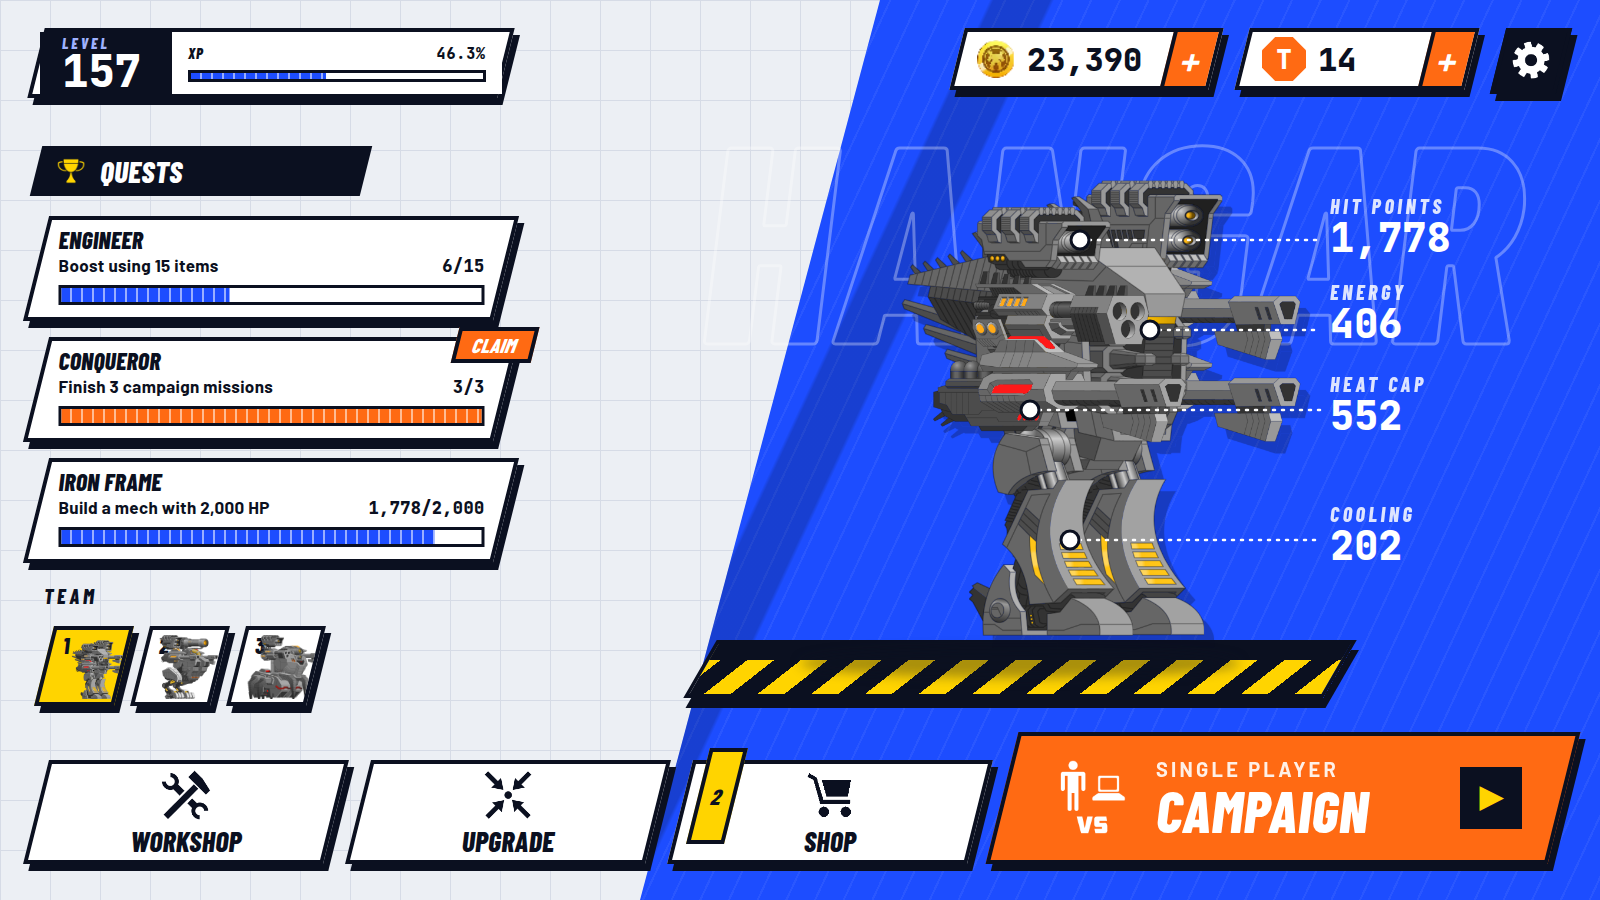
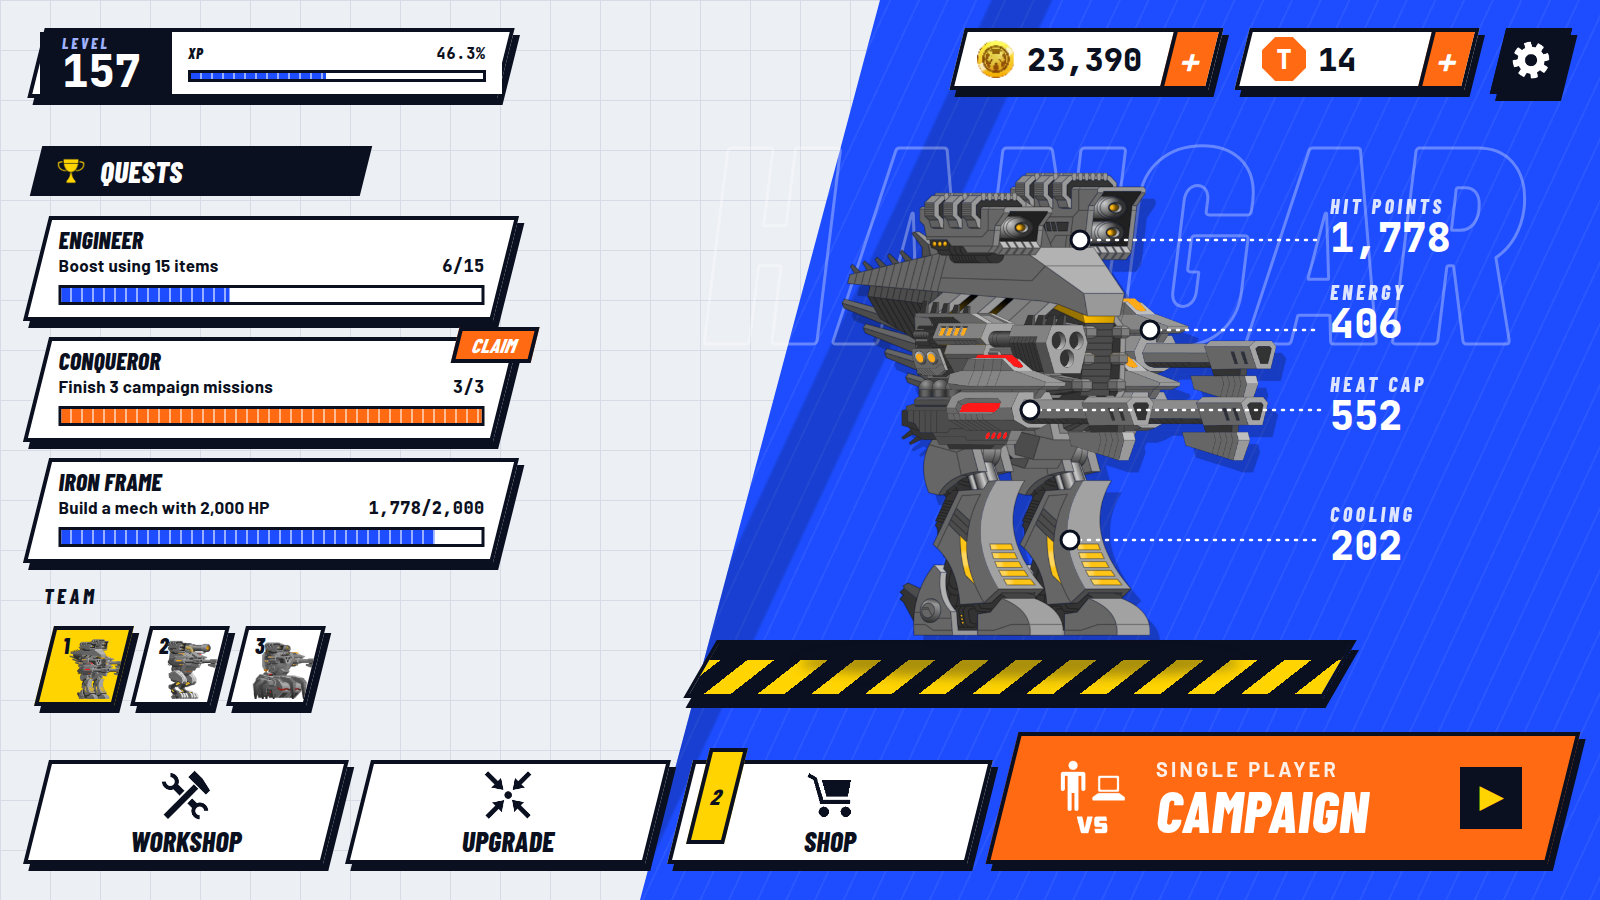
Place mech parts with the sprite frame offsets applied
sprite_bounds.json shows the exporter shifted each sprite by its outer frame
matrix (torso52: 61.25, 48.1, the negation of its mcDrone anchor) while the
anchors stayed in symbol space. Adding that offset brings the automatic
placement within ~25 px of the hand alignment for legs and top weapons,
down from 60-150 px. Side weapons 2-4 stay ~50 px off; not yet explained.

Claude-Session: https://claude.ai/code/session_016EMeU7WbdybdkHaQ4QiAx5

Changed region(s): [[0.5312, 0.1867, 0.8438, 0.7156], [0.0312, 0.6844, 0.2188, 0.7778]]

diff --git a/ui/mocks/assets/mech.js b/ui/mocks/assets/mech.js
@@ -1,5 +1,5 @@
 // Generated by ui/mocks/build_mechs.py from the game's own sprites and anchors.
-window.MECHS={"m1": {"w": 799, "h": 842, "parts": [{"src": "assets/mechs/sideRifle1E.png", "x": 369, "y": 193, "z": 1, "slot": "side2"}, {"src": "assets/mechs/sideRifle1E.png", "x": 369, "y": 332, "z": 2, "slot": "side4"}, {"src": "assets/mechs/topLaser2C_phys.png", "x": 412, "y": 69, "z": 3, "slot": "top2"}, {"src": "assets/mechs/leg73D_phys.png", "x": 357, "y": 489, "z": 4, "slot": "leg2"}, {"src": "assets/mechs/torso52_phys.png", "x": 0, "y": 0, "z": 6, "slot": "torso"}, {"src": "assets/mechs/topLaser2B_phys.png", "x": 250, "y": 114, "z": 7, "slot": "top1"}, {"src": "assets/mechs/leg73D_phys.png", "x": 236, "y": 490, "z": 8, "slot": "leg1"}, {"src": "assets/mechs/cannon3C.png", "x": 242, "y": 223, "z": 9, "slot": "side1"}, {"src": "assets/mechs/sideRifle2E.png", "x": 175, "y": 333, "z": 10, "slot": "side3"}]}, "m2": {"w": 652, "h": 713, "parts": [{"src": "assets/mechs/sideRifle2E.png", "x": 222, "y": 152, "z": 1, "slot": "side2"}, {"src": "assets/mechs/topBeam2E_phys.png", "x": 160, "y": 26, "z": 2, "slot": "top2"}, {"src": "assets/mechs/leg67D_phys.png", "x": 146, "y": 361, "z": 3, "slot": "leg2"}, {"src": "assets/mechs/torso46_phys.png", "x": 24, "y": 24, "z": 4, "slot": "torso"}, {"src": "assets/mechs/topLaser2C_phys.png", "x": 0, "y": 0, "z": 5, "slot": "top1"}, {"src": "assets/mechs/leg67D_phys.png", "x": 26, "y": 361, "z": 6, "slot": "leg1"}, {"src": "assets/mechs/sideRifle1E.png", "x": 18, "y": 152, "z": 7, "slot": "side1"}]}, "m3": {"w": 735, "h": 628, "parts": [{"src": "assets/mechs/sideRifle1E.png", "x": 305, "y": 105, "z": 1, "slot": "side2"}, {"src": "assets/mechs/leg77D_heat.png", "x": 120, "y": 330, "z": 2, "slot": "leg2"}, {"src": "assets/mechs/torso47_phys.png", "x": 107, "y": 12, "z": 3, "slot": "torso"}, {"src": "assets/mechs/topLaser2B_phys.png", "x": 132, "y": 0, "z": 4, "slot": "top1"}, {"src": "assets/mechs/leg77D_heat.png", "x": 0, "y": 330, "z": 5, "slot": "leg1"}, {"src": "assets/mechs/cannon3C.png", "x": 129, "y": 109, "z": 6, "slot": "side1"}]}};
+window.MECHS={"m1": {"w": 863, "h": 845, "parts": [{"src": "assets/mechs/sideRifle1E.png", "x": 433, "y": 270, "z": 1, "slot": "side2"}, {"src": "assets/mechs/sideRifle1E.png", "x": 419, "y": 366, "z": 2, "slot": "side4"}, {"src": "assets/mechs/topLaser2C_phys.png", "x": 386, "y": 56, "z": 3, "slot": "top2"}, {"src": "assets/mechs/leg73D_phys.png", "x": 369, "y": 493, "z": 4, "slot": "leg2"}, {"src": "assets/mechs/torso52_phys.png", "x": 0, "y": 0, "z": 5, "slot": "torso"}, {"src": "assets/mechs/topLaser2B_phys.png", "x": 255, "y": 90, "z": 6, "slot": "top1"}, {"src": "assets/mechs/leg73D_phys.png", "x": 221, "y": 493, "z": 7, "slot": "leg1"}, {"src": "assets/mechs/cannon3C.png", "x": 242, "y": 274, "z": 8, "slot": "side1"}, {"src": "assets/mechs/sideRifle2E.png", "x": 224, "y": 366, "z": 9, "slot": "side3"}]}, "m2": {"w": 750, "h": 785, "parts": [{"src": "assets/mechs/sideRifle2E.png", "x": 320, "y": 224, "z": 1, "slot": "side2"}, {"src": "assets/mechs/topBeam2E_phys.png", "x": 258, "y": 98, "z": 2, "slot": "top2"}, {"src": "assets/mechs/leg67D_phys.png", "x": 244, "y": 433, "z": 3, "slot": "leg2"}, {"src": "assets/mechs/torso46_phys.png", "x": 0, "y": 0, "z": 4, "slot": "torso"}, {"src": "assets/mechs/topLaser2C_phys.png", "x": 98, "y": 72, "z": 5, "slot": "top1"}, {"src": "assets/mechs/leg67D_phys.png", "x": 124, "y": 433, "z": 6, "slot": "leg1"}, {"src": "assets/mechs/sideRifle1E.png", "x": 116, "y": 224, "z": 7, "slot": "side1"}]}, "m3": {"w": 750, "h": 713, "parts": [{"src": "assets/mechs/sideRifle1E.png", "x": 320, "y": 190, "z": 1, "slot": "side2"}, {"src": "assets/mechs/leg77D_heat.png", "x": 135, "y": 415, "z": 2, "slot": "leg2"}, {"src": "assets/mechs/torso47_phys.png", "x": 0, "y": 0, "z": 3, "slot": "torso"}, {"src": "assets/mechs/topLaser2B_phys.png", "x": 147, "y": 84, "z": 4, "slot": "top1"}, {"src": "assets/mechs/leg77D_heat.png", "x": 15, "y": 415, "z": 5, "slot": "leg1"}, {"src": "assets/mechs/cannon3C.png", "x": 144, "y": 193, "z": 6, "slot": "side1"}]}, "m1hand": {"w": 799, "h": 842, "parts": [{"src": "assets/mechs/sideRifle1E.png", "x": 369, "y": 193, "z": 1, "slot": "side2"}, {"src": "assets/mechs/sideRifle1E.png", "x": 369, "y": 332, "z": 2, "slot": "side4"}, {"src": "assets/mechs/topLaser2C_phys.png", "x": 412, "y": 69, "z": 3, "slot": "top2"}, {"src": "assets/mechs/leg73D_phys.png", "x": 357, "y": 489, "z": 4, "slot": "leg2"}, {"src": "assets/mechs/torso52_phys.png", "x": 0, "y": 0, "z": 6, "slot": "torso"}, {"src": "assets/mechs/topLaser2B_phys.png", "x": 250, "y": 114, "z": 7, "slot": "top1"}, {"src": "assets/mechs/leg73D_phys.png", "x": 236, "y": 490, "z": 8, "slot": "leg1"}, {"src": "assets/mechs/cannon3C.png", "x": 242, "y": 223, "z": 9, "slot": "side1"}, {"src": "assets/mechs/sideRifle2E.png", "x": 175, "y": 333, "z": 10, "slot": "side3"}]}};
 
 window.buildMech=function(el,key,heightPx){const m=window.MECHS[key];el.style.position='relative';el.style.width=m.w+'px';el.style.height=m.h+'px';
  for(const p of m.parts){const i=document.createElement('img');i.src=p.src;i.draggable=false;i.style.cssText='position:absolute;left:'+p.x+'px;top:'+p.y+'px;z-index:'+p.z+';max-width:none';el.appendChild(i);}

diff --git a/ui/mocks/A-blueprint.html b/ui/mocks/A-blueprint.html
@@ -68,7 +68,7 @@ html,body{height:100%;background:#0b1020;overflow:hidden}
 .pad{position:absolute;left:700px;top:640px;width:640px;height:58px;background:repeating-linear-gradient(-55deg,var(--yellow) 0 22px,var(--ink) 22px 44px);border:4px solid var(--ink);transform:skewX(-30deg);box-shadow:8px 10px 0 var(--ink)}
 .pad::after{content:"";position:absolute;left:0;right:0;top:0;height:16px;background:var(--ink)}
 .shadow{position:absolute;left:800px;top:648px;width:440px;height:30px;border-radius:50%;background:rgba(11,16,32,.35);filter:blur(6px)}
-#mech{position:absolute;left:830px;top:140px;filter:drop-shadow(10px 12px 0 rgba(11,16,32,.28))}
+#mech{position:absolute;left:770px;top:140px;filter:drop-shadow(10px 12px 0 rgba(11,16,32,.28))}
 
 /* callouts */
 .co{position:absolute;color:#fff;display:flex;align-items:baseline;gap:10px;white-space:nowrap}

diff --git a/ui/mocks/build_mechs.py b/ui/mocks/build_mechs.py
@@ -45,6 +45,21 @@ def base_id(name):
     return name
 
 
+_BOUNDS = None
+def frame(name):
+    """Outer frame translation of the sprite's SVG export (data/sprite_bounds.json). The exporter shifted the art by
+    this much when it rendered the PNG, but the anchors were never shifted, so PNG-space anchor = anchor + frame."""
+    global _BOUNDS
+    if _BOUNDS is None:
+        _BOUNDS = json.load(open(os.path.join(ROOT, "data", "sprite_bounds.json")))
+    b = base_id(name)
+    for era in ("reloaded", "legacy"):
+        r = _BOUNDS.get(era, {}).get(b)
+        if r and "frame" in r:
+            return r["frame"][4], r["frame"][5]
+    return 0.0, 0.0
+
+
 def anchors(name):
     a = items[base_id(name)].get("anchors")
     if not a:
@@ -56,7 +71,8 @@ def assemble(loadout):
     """loadout: dict slot -> sprite name. Returns {w,h,parts}."""
     torso = loadout["torso"]
     ta = anchors(torso)
-    cx, cy = ta["mcCenter"]
+    tfx, tfy = frame(torso)
+    cx, cy = 0.0, 0.0
     placed = []  # (slot, sprite, x, y) in 2x px, origin = mech origin (torso mcCenter)
     for slot in ORDER:
         name = loadout.get(slot)
@@ -64,15 +80,16 @@ def assemble(loadout):
             continue
         w, h = png_size(sprite_path(name))
         if slot == "torso":
-            x, y = -cx * S, -cy * S
+            x, y = 0.0, 0.0
         else:
             key = {"leg1": "mcLeg1", "leg2": "mcLeg2", "top1": "mcTop1", "top2": "mcTop2",
                    "side1": "mcSide1", "side2": "mcSide2", "side3": "mcSide3", "side4": "mcSide4"}[slot]
             if key not in ta:
                 raise SystemExit("%s has no %s" % (torso, key))
             pa = anchors(name)["mcTorso"]
-            x = (ta[key][0] - cx) * S - pa[0] * S
-            y = (ta[key][1] - cy) * S - pa[1] * S
+            pfx, pfy = frame(name)
+            x = ((ta[key][0] + tfx) - (pa[0] + pfx)) * S
+            y = ((ta[key][1] + tfy) - (pa[1] + pfy)) * S
         placed.append((slot, name, x, y, w, h))
     x0 = min(p[2] for p in placed)
     y0 = min(p[3] for p in placed)
@@ -114,7 +131,7 @@ LOADOUTS = {
     # Brutality torso (torso52) on leg73 legs, checked against the game's own workshop screenshot
     "m1": {"torso": "torso52_phys", "leg1": "leg73D_phys", "leg2": "leg73D_phys",
            "top1": "topLaser2B_phys", "top2": "topLaser2C_phys",
-           "side1": "cannon3C", "side2": "sideRifle1E"},
+           "side1": "cannon3C", "side2": "sideRifle1E", "side3": "sideRifle2E", "side4": "sideRifle1E"},
     "m2": {"torso": "torso46_phys", "leg1": "leg67D_phys", "leg2": "leg67D_phys",
            "top1": "topLaser2C_phys", "top2": "topBeam2E_phys",
            "side1": "sideRifle1E", "side2": "sideRifle2E"},
@@ -134,7 +151,7 @@ if __name__ == "__main__":
     out = {k: assemble(v) for k, v in LOADOUTS.items()}
     saved = os.path.join(ROOT, "ui", "aligner", "saved", "torso52.json")
     if os.path.exists(saved):
-        out["m1"] = assemble_aligned(saved)   # the user's hand-aligned Brutality
+        out["m1hand"] = assemble_aligned(saved)   # the user's hand-aligned Brutality, for comparison
     for k, v in out.items():
         print(k, v["w"], v["h"], [p["slot"] for p in v["parts"]])
     with open(os.path.join(MOCKS, "assets", "mech.js"), "w") as f:
